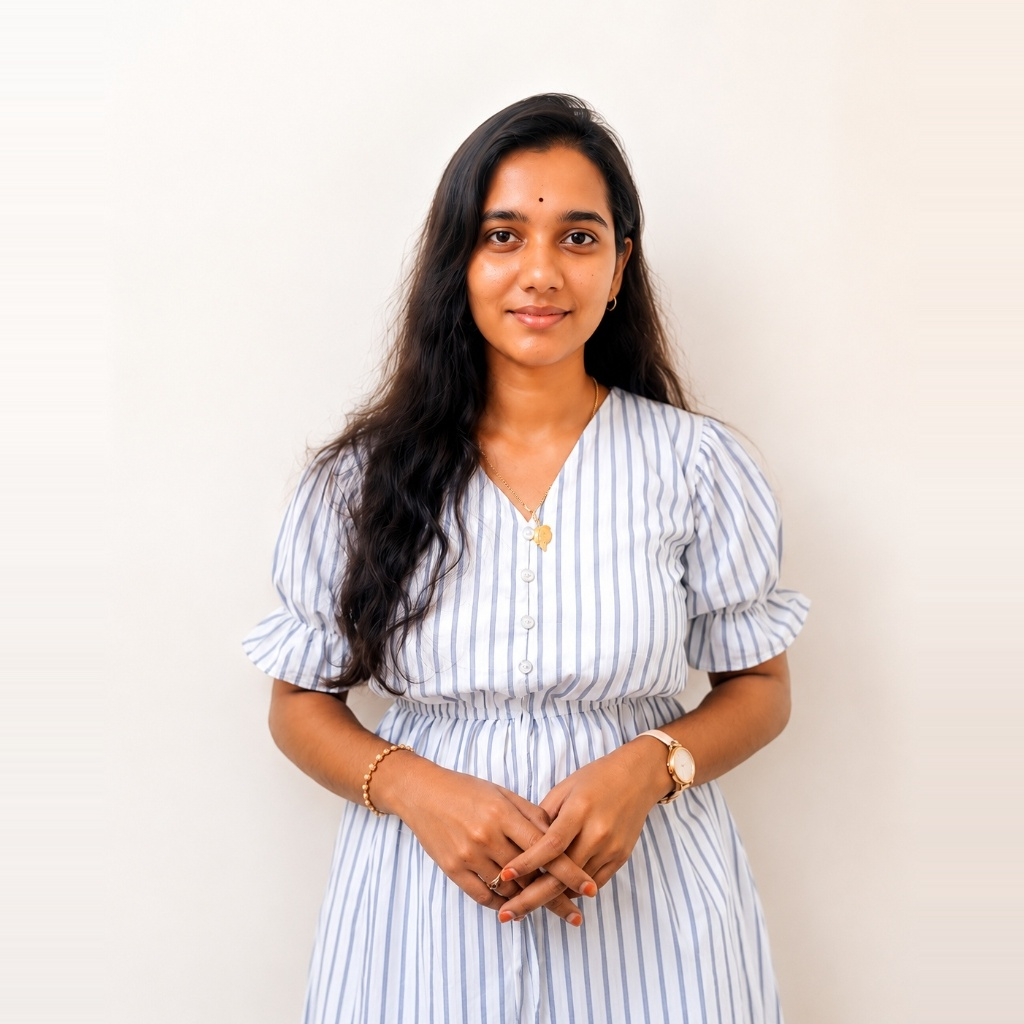
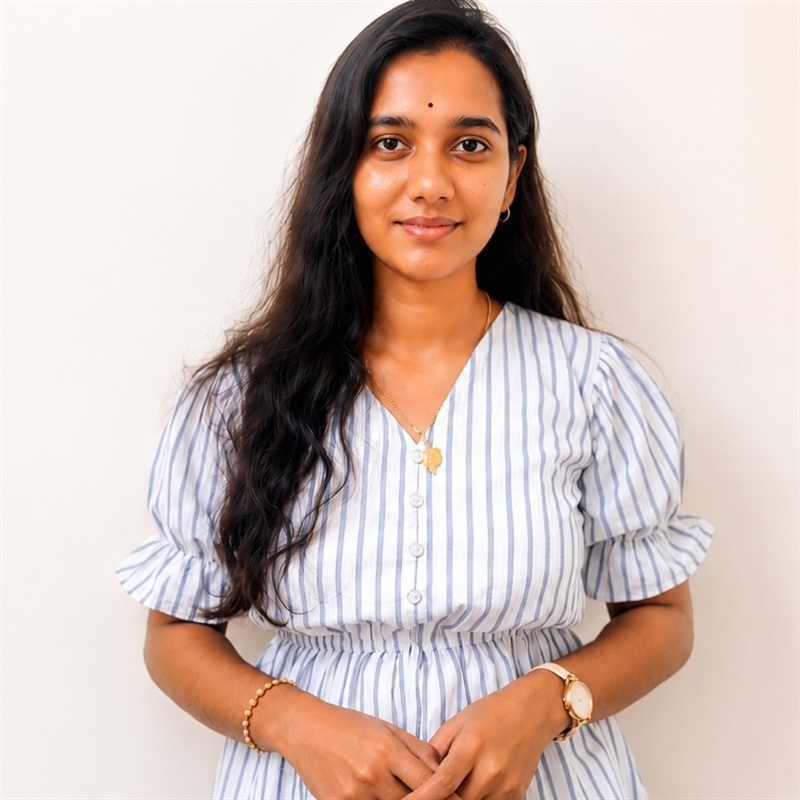
style: frame leadership portrait up to wrists and update Cuddalore address across website

diff --git a/server/knowledgeCrawler.js b/server/knowledgeCrawler.js
@@ -76,7 +76,7 @@ Key Performance Metrics:
 • 2,000+ Training Hours Delivered
 • 30+ Skilled Specialists across accessibility, XML, typesetting, and AI engineering.
 Offices:
-• Head Office & Operations: Pathirikuppam, Thiruvantthipuram Post, Cuddalore - 607002, Tamil Nadu, India
+• Head Office & Operations: Velvora Solutions, Indhira Nagar, Cuddalore - 607002, Tamil Nadu, India
 • Branch Office: Velvora Solutions, Porur, Chennai, Tamil Nadu, India
 Contact: ${company.email} | Phone: ${company.phone} | Office Hours: ${company.hours}`,
         topics: ['About Velvora', 'Content and Technology Partner', 'Global Delivery', 'Company Overview', 'Key Metrics'],
@@ -356,7 +356,7 @@ Application Procedure:
 
 Office Locations in Tamil Nadu, India:
 1. **Cuddalore Office (Head Office / Operations Center):**
-   Pathirikuppam, Thiruvantthipuram Post, Cuddalore - 607002, Tamil Nadu, India
+   Velvora Solutions, Indhira Nagar, Cuddalore - 607002, Tamil Nadu, India
 2. **Chennai Office (Branch Office):**
    Velvora Solutions, Porur, Chennai, Tamil Nadu, India
 
@@ -410,7 +410,7 @@ Key Commitments:
     faqs.push(
       {
         q: 'How many branches or offices does Velvora Solutions have?',
-        a: 'Velvora Solutions operates from two verified physical offices in Tamil Nadu, India: our Head Office & Operations Center in Cuddalore (Pathirikuppam) and our Branch Office in Chennai (Porur). Digital delivery and client collaboration are provided to organizations worldwide.'
+        a: 'Velvora Solutions operates from two verified physical offices in Tamil Nadu, India: our Head Office & Operations Center in Cuddalore (Indhira Nagar) and our Branch Office in Chennai (Porur). Digital delivery and client collaboration are provided to organizations worldwide.'
       },
       {
         q: 'Who is the founder and leader of Velvora Solutions?',

diff --git a/server/voraKnowledgeStore.js b/server/voraKnowledgeStore.js
@@ -336,7 +336,7 @@ export class VoraKnowledgeStore {
       return {
         reply: "Velvora Solutions operates from **two verified physical offices** located in Tamil Nadu, India:\n\n" +
                "1. **Cuddalore Office (Head Office & Operations Center):**\n" +
-               "   Pathirikuppam, Thiruvantthipuram Post, Cuddalore - 607002, Tamil Nadu, India\n\n" +
+               "   Velvora Solutions, Indhira Nagar, Cuddalore - 607002, Tamil Nadu, India\n\n" +
                "2. **Chennai Office (Branch Office):**\n" +
                "   Velvora Solutions, Porur, Chennai, Tamil Nadu, India\n\n" +
                "• **Global Delivery:** While our physical offices are based in India, our digital accessibility, ePublishing, and technology workflows serve publishers, universities, and enterprises worldwide.\n" +
@@ -356,7 +356,7 @@ export class VoraKnowledgeStore {
       return {
         reply: "Velvora Solutions operates from two verified offices in Tamil Nadu, India:\n\n" +
                "• **Head Office & Operations Center (Cuddalore):**\n" +
-               "  Pathirikuppam, Thiruvantthipuram Post, Cuddalore - 607002, Tamil Nadu, India\n\n" +
+               "  Velvora Solutions, Indhira Nagar, Cuddalore - 607002, Tamil Nadu, India\n\n" +
                "• **Branch Office (Chennai):**\n" +
                "  Velvora Solutions, Porur, Chennai, Tamil Nadu, India\n\n" +
                "• **Email:** info@velvorasolutions.com\n" +

diff --git a/src/data/site.js b/src/data/site.js
@@ -13,9 +13,9 @@ export const company = {
   accessibilityEmail: 'info@velvorasolutions.com',
   phone: '+91 9500834236',
   phoneFormatted: '+91 9500834236',
-  office1: 'Velvora Solutions, Pathirikuppam, Thiruvantthipuram Post, Cuddalore',
+  office1: 'Velvora Solutions, Indhira Nagar, Cuddalore',
   office2: 'Velvora Solutions, Porur, Chennai',
-  address: 'Velvora Solutions, Pathirikuppam, Thiruvantthipuram Post, Cuddalore',
+  address: 'Velvora Solutions, Indhira Nagar, Cuddalore',
   address2: 'Velvora Solutions, Porur, Chennai',
   hours: 'Monday to Saturday: 9:00 AM – 6:30 PM',
   founderLinkedin: 'https://www.linkedin.com/in/iyshwariya-senthil-bb7707287/',

diff --git a/src/pages/PrivacyPolicy.jsx b/src/pages/PrivacyPolicy.jsx
@@ -116,10 +116,9 @@ export default function PrivacyPolicy() {
             <p style={{ margin: '1rem 0' }}>
               <strong>Grievance Officer / Data Protection Contact:</strong><br />
               <strong>Velvora Solutions</strong><br />
-              450/90, Indra Nagar,<br />
-              Pathirikuppam,<br />
+              Indhira Nagar,<br />
               Cuddalore,<br />
-              Tamilnadu &ndash; 606302
+              Tamil Nadu &ndash; 607002
             </p>
             <p style={{ margin: '0.5rem 0' }}>
               <Mail size={16} aria-hidden="true" style={{ verticalAlign: 'middle', marginRight: '6px' }} />

diff --git a/privacy-policy.html b/privacy-policy.html
@@ -390,10 +390,9 @@
       <div class="officer-details">
         <strong>Grievance Officer / Data Protection Contact:</strong><br>
         <strong>Velvora Solutions</strong><br>
-        450/90, Indra Nagar,<br>
-        Pathirikuppam,<br>
+        Indhira Nagar,<br>
         Cuddalore,<br>
-        Tamilnadu &ndash; 606302<br><br>
+        Tamil Nadu &ndash; 607002<br><br>
         <strong>Email:</strong> <a href="mailto:info@velvorasolutions.com">info@velvorasolutions.com</a><br>
         <strong>Phone:</strong> +91 9500834236
       </div>

diff --git a/public/privacy-policy.html b/public/privacy-policy.html
@@ -341,10 +341,9 @@
       <div class="officer-details">
         <strong>Grievance Officer / Data Protection Contact:</strong><br>
         <strong>Velvora Solutions</strong><br>
-        450/90, Indra Nagar,<br>
-        Pathirikuppam,<br>
+        Indhira Nagar,<br>
         Cuddalore,<br>
-        Tamilnadu &ndash; 606302<br><br>
+        Tamil Nadu &ndash; 607002<br><br>
         <strong>Email:</strong> <a href="mailto:info@velvorasolutions.com">info@velvorasolutions.com</a><br>
         <strong>Phone:</strong> +91 9500834236
       </div>
